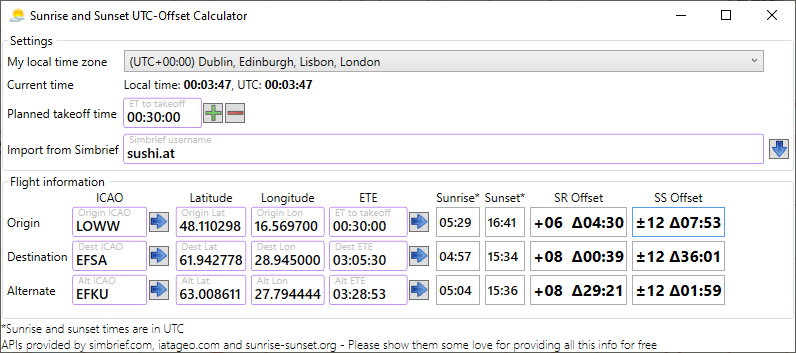
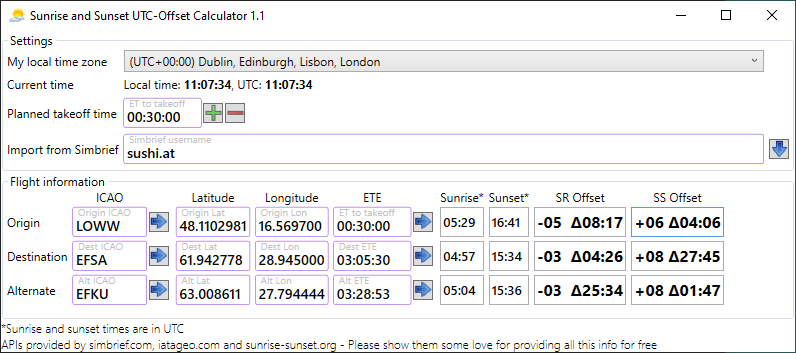
Fixed sunset calculation (failed to apply 24 hour logic from sunrise) Bumped version to 1.1 and added version info to window title Updated screenshot

diff --git a/SunsetOffsetCalculator/CalculatorViewModel.cs b/SunsetOffsetCalculator/CalculatorViewModel.cs
@@ -338,6 +338,16 @@
                                 ssDelta = ssDelta.Negate();
                             }
 
+                            if (ssDelta.TotalHours > 23)
+                            {
+                                ssDelta = ssDelta.Subtract(TimeSpan.FromDays(1));
+                            }
+
+                            if (ssDelta.TotalSeconds < 0)
+                            {
+                                ssDelta = ssDelta.Negate();
+                            }
+
                             if (ssDelta < minSunSet)
                             {
                                 minSunSet = ssDelta;

diff --git a/SunsetOffsetCalculator/Properties/AssemblyInfo.cs b/SunsetOffsetCalculator/Properties/AssemblyInfo.cs
@@ -1,6 +1,4 @@
 using System.Reflection;
-using System.Resources;
-using System.Runtime.CompilerServices;
 using System.Runtime.InteropServices;
 using System.Windows;
 
@@ -51,5 +49,5 @@ using System.Windows;
 // You can specify all the values or you can default the Build and Revision Numbers
 // by using the '*' as shown below:
 // [assembly: AssemblyVersion("1.0.*")]
-[assembly: AssemblyVersion("1.0.0.0")]
-[assembly: AssemblyFileVersion("1.0.0.0")]
+[assembly: AssemblyVersion("1.1.0.0")]
+[assembly: AssemblyFileVersion("1.1.0.0")]

diff --git a/SunsetOffsetCalculator/Calculator.xaml.cs b/SunsetOffsetCalculator/Calculator.xaml.cs
@@ -1,12 +1,14 @@
 namespace SunsetOffsetCalculator
 {
+    using System.Reflection;
     using System.Windows;
 
     public partial class Calculator : Window
     {
         public Calculator()
         {
-            InitializeComponent();
+            this.InitializeComponent();
+            this.Title += " " + Assembly.GetExecutingAssembly().GetName().Version.Major + "." + Assembly.GetExecutingAssembly().GetName().Version.Minor;
         }
     }
 }
